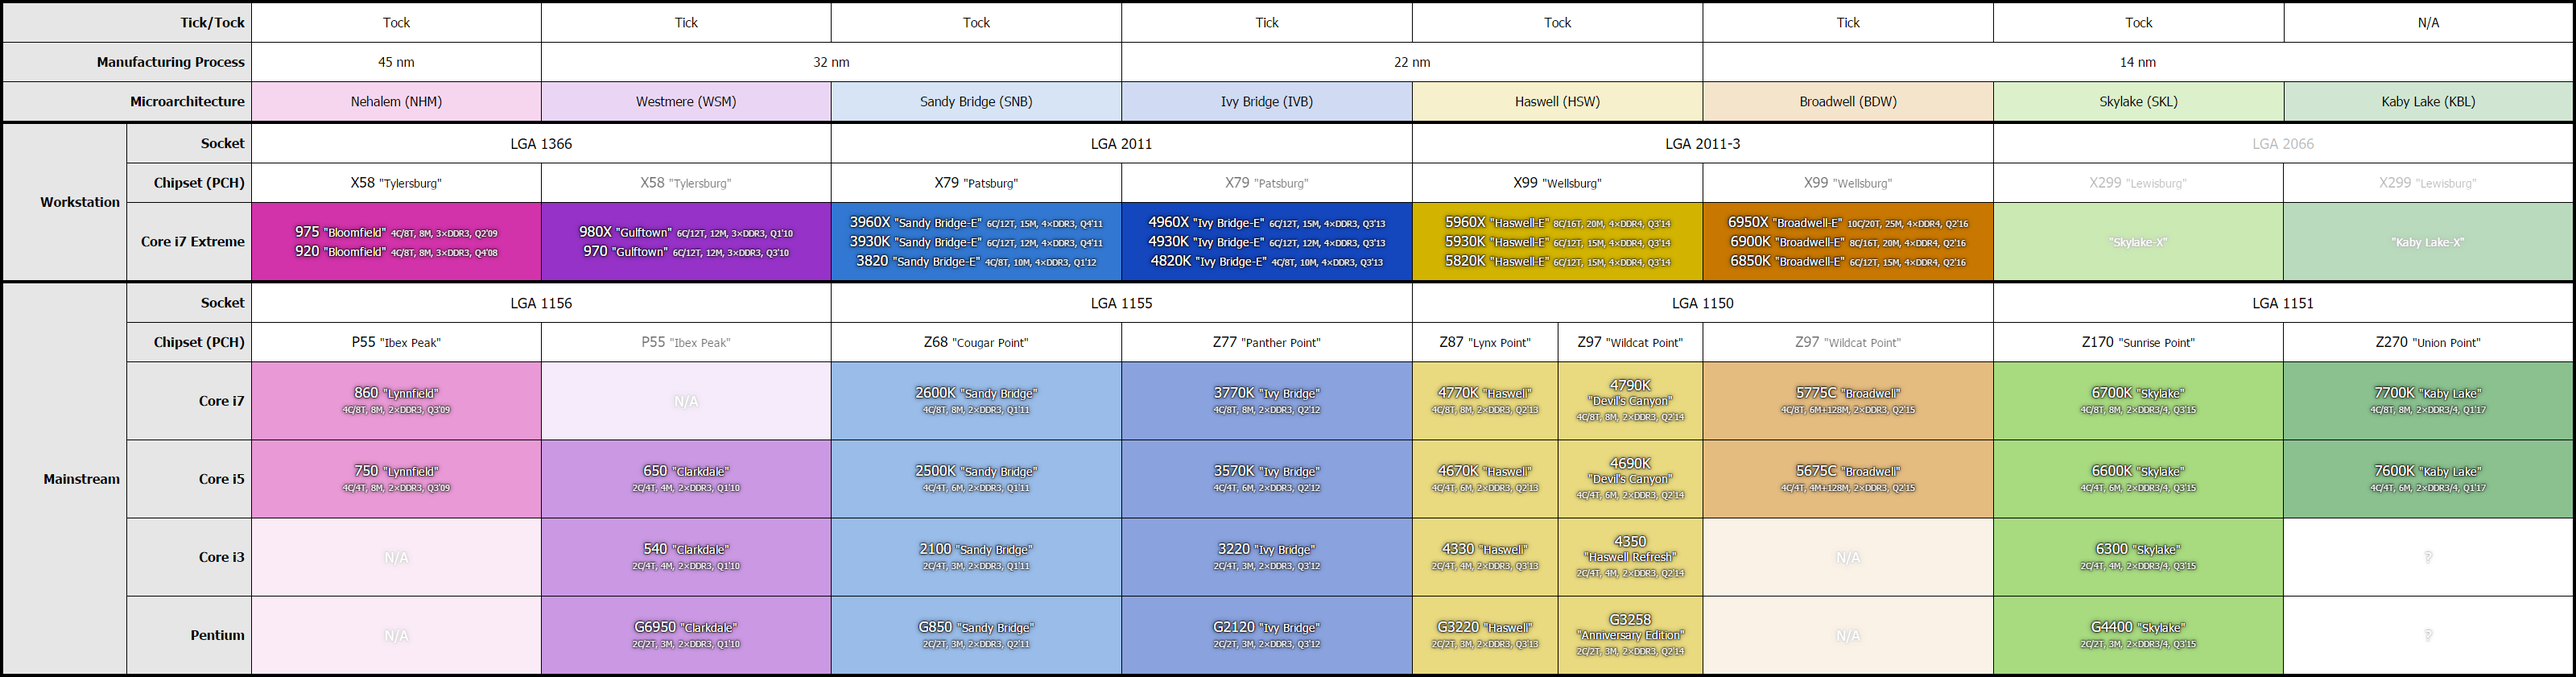
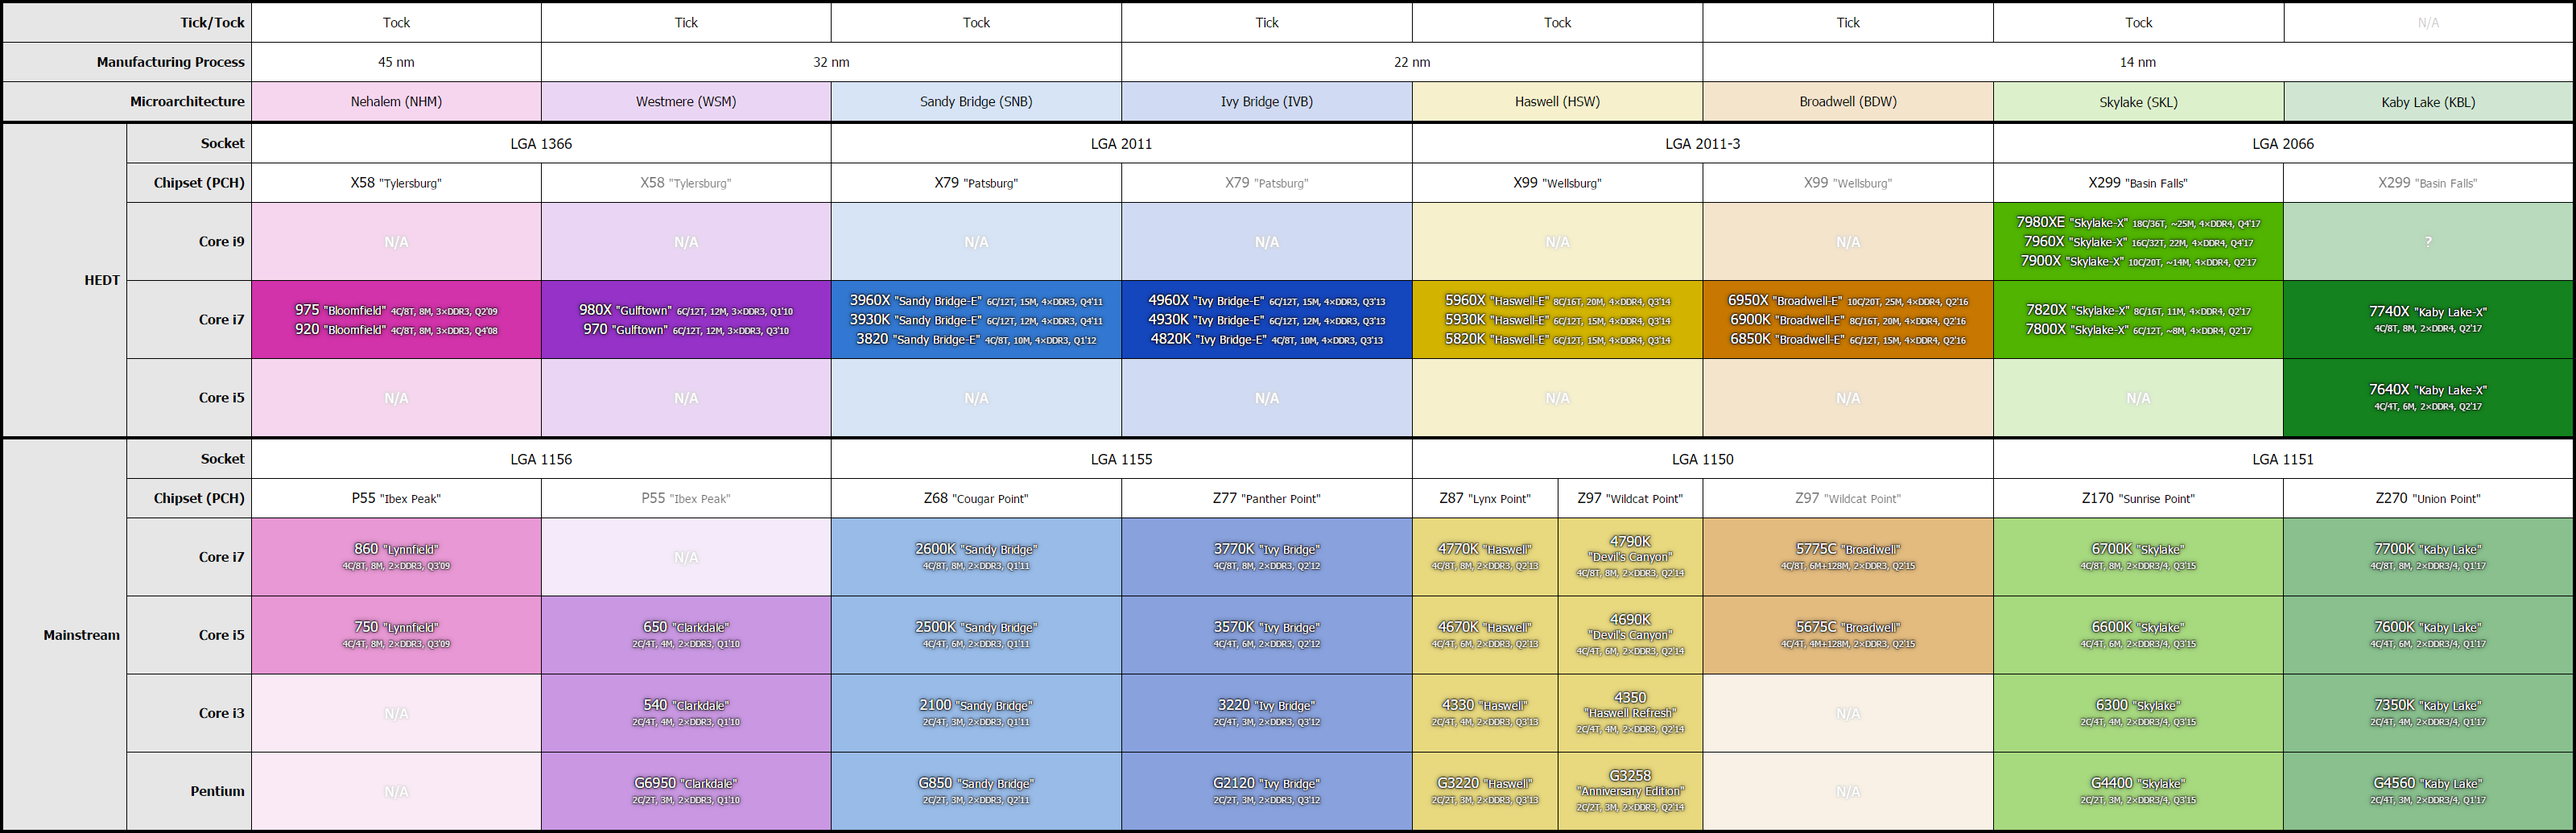
Update images and README to reflect recent changes

diff --git a/README.md b/README.md
@@ -58,8 +58,8 @@ We can also see that, since they lie within the LGA 1155 subtable, 2600K and 377
 ## Usage
 
 It can often be practical to link to or embed the cheat sheet as an image. The latest version will always be available here in these sizes:
-* [`ICS100.png`](https://raw.githubusercontent.com/SimonAlling/intel-cheat-sheet/master/ICS100.png) – 100% (3200×841, ~800 KB)
-* [`ICS200.png`](https://raw.githubusercontent.com/SimonAlling/intel-cheat-sheet/master/ICS200.png) – 200% (6400×1682, ~2,5 MB)
-* [`ICS400.png`](https://raw.githubusercontent.com/SimonAlling/intel-cheat-sheet/master/ICS400.png) – 400% (12800×3364, ~8 MB)
+* [`ICS100.png`](https://raw.githubusercontent.com/SimonAlling/intel-cheat-sheet/master/ICS100.png) – 100% (3200×1035, ~800 KB)
+* [`ICS200.png`](https://raw.githubusercontent.com/SimonAlling/intel-cheat-sheet/master/ICS200.png) – 200% (6400×2070, ~2 MB)
+* [`ICS400.png`](https://raw.githubusercontent.com/SimonAlling/intel-cheat-sheet/master/ICS400.png) – 400% (12800×4140, ~6 MB)
 
 Please note that the 400% version is generally too large to embed on a discussion board. (It will take around 10 seconds to load it over an 8Mbit/s connection.) Therefore, it is recommended to use the smaller versions for embedding.
